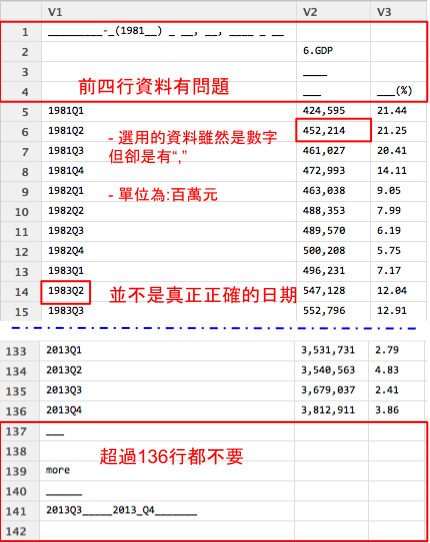
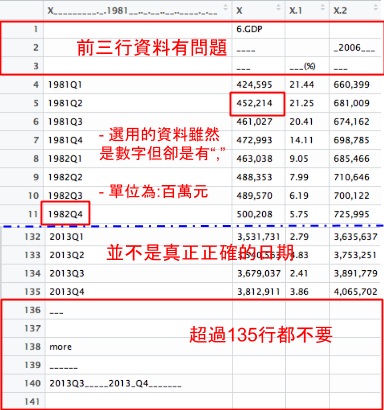
publishing deck

diff --git a/index.html b/index.html
@@ -824,7 +824,7 @@ str(Cl_info_part)
   <article data-timings="">
     <p><q>答案</q></p>
 
-<pre><code class="r">GDP = read.table(file=&quot;./GDP.txt&quot;,sep=&quot;,&quot;,stringsAsFactors=F,header=F)
+<pre><code class="r">GDP = read.table(file=&quot;./GDP.txt&quot;,sep=&quot;,&quot;,stringsAsFactors=F,header=T)
 </code></pre>
 
 <p>或</p>

diff --git a/index.md b/index.md
@@ -578,7 +578,7 @@ Cl_info_part2 = mutate(Cl_info_part,time= as.POSIXct(data_dt))
 <q>答案</q>
 
 ```r
-GDP = read.table(file="./GDP.txt",sep=",",stringsAsFactors=F,header=F)
+GDP = read.table(file="./GDP.txt",sep=",",stringsAsFactors=F,header=T)
 ```
 或
 ```r
